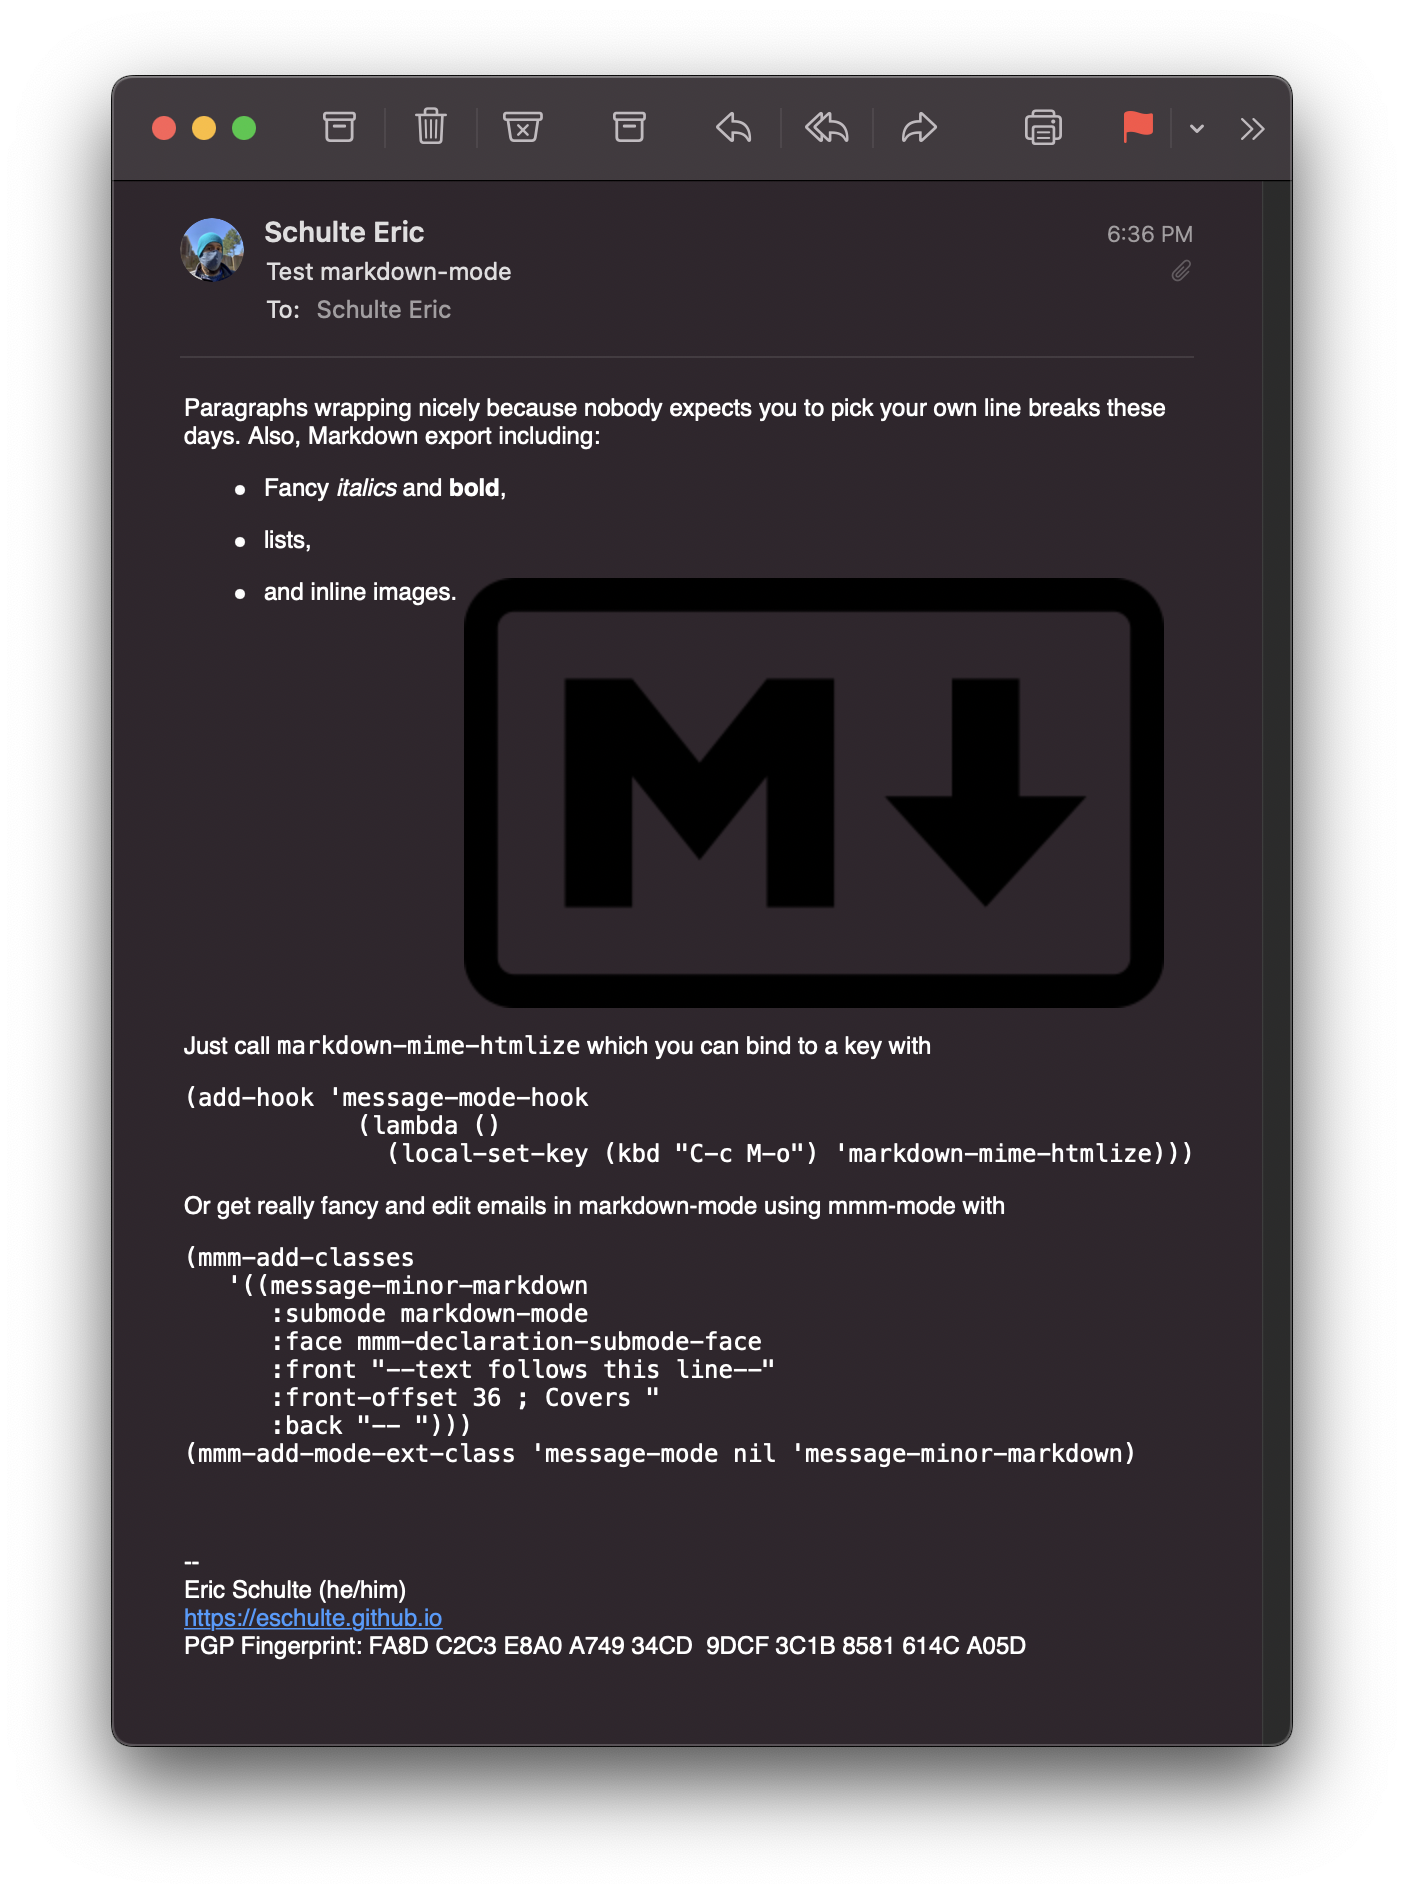
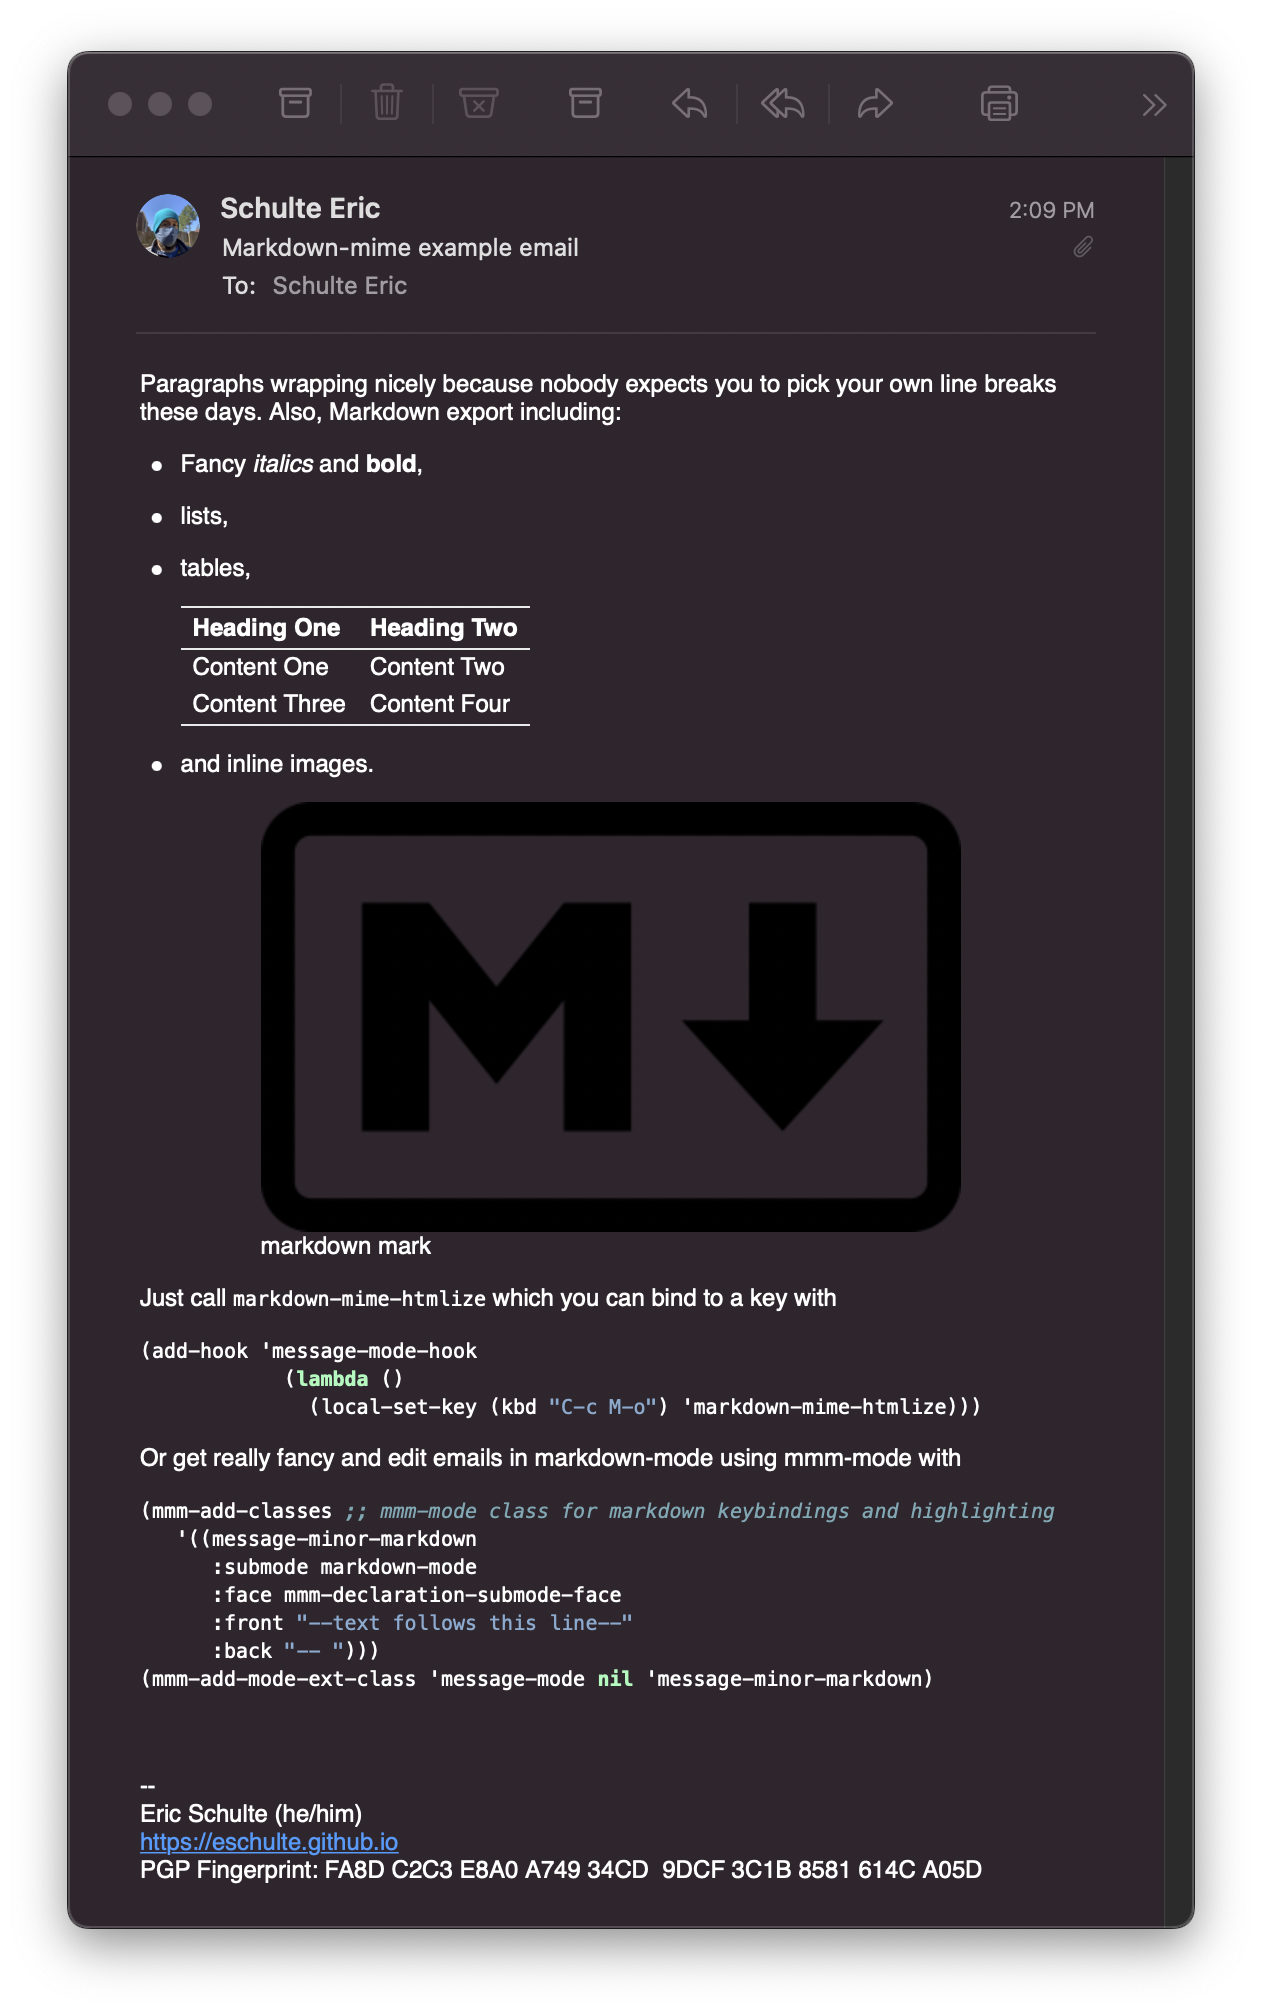
Syntax highlighting & tables w/pandoc

Changed region(s): [[0.0309, 0.0, 0.958, 0.9968]]

diff --git a/pandoc-email.css b/pandoc-email.css
@@ -1,0 +1,151 @@
+p {
+  margin: 1em 0;
+}
+a {
+  color: #1a1a1a;
+}
+a:visited {
+  color: #1a1a1a;
+}
+img {
+  max-width: 100%;
+}
+h1, h2, h3, h4, h5, h6 {
+  margin-top: 1.4em;
+}
+h5, h6 {
+  font-size: 1em;
+  font-style: italic;
+}
+h6 {
+  font-weight: normal;
+}
+ol, ul {
+  padding-left: 1.7em;
+  margin-top: 1em;
+}
+li > ol, li > ul {
+  margin-top: 0;
+}
+blockquote {
+  margin: 1em 0 1em 1.7em;
+  padding-left: 1em;
+  border-left: 2px solid #e6e6e6;
+  color: #606060;
+}
+code {
+  font-family: Menlo, Monaco, 'Lucida Console', Consolas, monospace;
+  font-size: 85%;
+  margin: 0;
+}
+pre {
+  margin: 1em 0;
+  overflow: auto;
+}
+pre code {
+  padding: 0;
+  overflow: visible;
+  overflow-wrap: normal;
+}
+.sourceCode {
+ background-color: transparent;
+ overflow: visible;
+}
+hr {
+  background-color: #1a1a1a;
+  border: none;
+  height: 1px;
+  margin: 1em 0;
+}
+table {
+  margin: 1em 0;
+  border-collapse: collapse;
+  width: 100%;
+  overflow-x: auto;
+  display: block;
+  font-variant-numeric: lining-nums tabular-nums;
+}
+table caption {
+  margin-bottom: 0.75em;
+}
+tbody {
+  margin-top: 0.5em;
+  border-top: 1px solid #1a1a1a;
+  border-bottom: 1px solid #1a1a1a;
+}
+th {
+  border-top: 1px solid #1a1a1a;
+  padding: 0.25em 0.5em 0.25em 0.5em;
+}
+td {
+  padding: 0.125em 0.5em 0.25em 0.5em;
+}
+header {
+  margin-bottom: 4em;
+  text-align: center;
+}
+code{white-space: pre-wrap;}
+span.smallcaps{font-variant: small-caps;}
+div.columns{display: flex; gap: min(4vw, 1.5em);}
+div.column{flex: 1;}
+div.hanging-indent{margin-left: 1.5em; text-indent: -1.5em;}
+ul.task-list{list-style: none;}
+ul.task-list li input[type="checkbox"] {
+  width: 0.8em;
+  margin: 0 0.8em 0.2em -1.6em;
+  vertical-align: middle;
+}
+pre > code.sourceCode { white-space: pre; position: relative; }
+pre > code.sourceCode > span { display: inline-block; line-height: 1.25; }
+pre > code.sourceCode > span:empty { height: 1.2em; }
+.sourceCode { overflow: visible; }
+code.sourceCode > span { color: inherit; text-decoration: inherit; }
+div.sourceCode { margin: 1em 0; }
+pre.sourceCode { margin: 0; }
+pre.numberSource code
+  { counter-reset: source-line 0; }
+pre.numberSource code > span
+  { position: relative; left: -4em; counter-increment: source-line; }
+pre.numberSource code > span > a:first-child::before
+  { content: counter(source-line);
+    position: relative; left: -1em; text-align: right; vertical-align: baseline;
+    border: none; display: inline-block;
+    -webkit-touch-callout: none; -webkit-user-select: none;
+    -khtml-user-select: none; -moz-user-select: none;
+    -ms-user-select: none; user-select: none;
+    padding: 0 4px; width: 4em;
+    color: #aaaaaa;
+  }
+pre.numberSource { margin-left: 3em; border-left: 1px solid #aaaaaa;  padding-left: 4px; }
+div.sourceCode
+  {   }
+code span.al { color: #ff0000; font-weight: bold; } /* Alert */
+code span.an { color: #60a0b0; font-weight: bold; font-style: italic; } /* Annotation */
+code span.at { color: #7d9029; } /* Attribute */
+code span.bn { color: #40a070; } /* BaseN */
+code span.bu { color: #008000; } /* BuiltIn */
+code span.cf { color: #007020; font-weight: bold; } /* ControlFlow */
+code span.ch { color: #4070a0; } /* Char */
+code span.cn { color: #880000; } /* Constant */
+code span.co { color: #60a0b0; font-style: italic; } /* Comment */
+code span.cv { color: #60a0b0; font-weight: bold; font-style: italic; } /* CommentVar */
+code span.do { color: #ba2121; font-style: italic; } /* Documentation */
+code span.dt { color: #902000; } /* DataType */
+code span.dv { color: #40a070; } /* DecVal */
+code span.er { color: #ff0000; font-weight: bold; } /* Error */
+code span.ex { } /* Extension */
+code span.fl { color: #40a070; } /* Float */
+code span.fu { color: #06287e; } /* Function */
+code span.im { color: #008000; font-weight: bold; } /* Import */
+code span.in { color: #60a0b0; font-weight: bold; font-style: italic; } /* Information */
+code span.kw { color: #007020; font-weight: bold; } /* Keyword */
+code span.op { color: #666666; } /* Operator */
+code span.ot { color: #007020; } /* Other */
+code span.pp { color: #bc7a00; } /* Preprocessor */
+code span.sc { color: #4070a0; } /* SpecialChar */
+code span.ss { color: #bb6688; } /* SpecialString */
+code span.st { color: #4070a0; } /* String */
+code span.va { color: #19177c; } /* Variable */
+code span.vs { color: #4070a0; } /* VerbatimString */
+code span.wa { color: #60a0b0; font-weight: bold; font-style: italic; } /* Warning */
+.display.math{display: block; text-align: center; margin: 0.5rem auto;}

diff --git a/README.md b/README.md
@@ -11,7 +11,7 @@ For example the following message buffer:
 
 ```
 To: Eric Schulte <my.self@gmail.com>
-Subject: Test markdown-mime
+Subject: Markdown-mime example email
 From: Eric Schulte <my.self@gmail.com>
 --text follows this line--
 <#secure method=pgpmime mode=sign>
@@ -22,30 +22,36 @@ line breaks these days.  Also, Markdown export including:
 
 - lists,
 
+- tables,
+
+    | Heading One   | Heading Two  |
+    |---------------|--------------|
+    | Content One   | Content Two  |
+    | Content Three | Content Four |
+
 - and inline images.
-  ![markdown mark](~/Desktop/Markdown-mark.png)
+
+    ![markdown mark](~/Desktop/Markdown-mark.png)
 
 Just call `markdown-mime-htmlize` which you can bind to a key with
 
-    (add-hook 'message-mode-hook
-                (lambda ()
-                  (local-set-key (kbd "C-c M-o") 'markdown-mime-htmlize)))
+```lisp
+(add-hook 'message-mode-hook
+            (lambda ()
+              (local-set-key (kbd "C-c M-o") 'markdown-mime-htmlize)))
+```
 
 Or get really fancy and edit emails in markdown-mode using mmm-mode with
 
-    (mmm-add-classes
-       '((message-minor-markdown
-          :submode markdown-mode
-          :face mmm-declaration-submode-face
-          :front "--text follows this line--"
-          :front-offset 36 ; Covers "
-          :back "-- ")))
-    (mmm-add-mode-ext-class 'message-mode nil 'message-minor-markdown)
-
--- 
-Eric Schulte (he/him)
-https://eschulte.github.io
-PGP Fingerprint: FA8D C2C3 E8A0 A749 34CD  9DCF 3C1B 8581 614C A05D
+```lisp
+(mmm-add-classes ;; mmm-mode class for markdown keybindings and highlighting
+   '((message-minor-markdown
+      :submode markdown-mode
+      :face mmm-declaration-submode-face
+      :front "--text follows this line--"
+      :back "-- ")))
+(mmm-add-mode-ext-class 'message-mode nil 'message-minor-markdown)
+```
 ```
 
 sends an html email rendering as follows:
@@ -91,6 +97,36 @@ After `markdown-mime-htmlize`, you can always undo to restore the
 original plain text mail.
 
 ## Tips
+
+### Pandoc for highlighted source code and tables
+The plain `markdown` markup engine does not support fontified source
+code or tables.  This fun functionality can be relatively easily added
+by switching to using [pandoc][] as your markdown to HTML exporter,
+with [premailer][] used as a post-processing step to inline the CSS
+generated by pandoc into the generated html so that mail user agents
+won't strip it out.
+
+[pandoc]: https://pandoc.org
+[premailer]: https://pypi.org/project/premailer/
+
+The `pandoc-email.sh` script included in this directory is a simple
+shell script that calls `pandoc` and passes the results through
+`premailer`.
+
+To enable tables and source code highlighting with pandoc and
+premailer:
+
+1. Install [pandoc][].
+
+2. Install [premailer][].
+
+3. Set the value of `markdown-command` to point to the
+   `pandoc-email.sh` script in this directory.
+
+    ```elisp
+    (setq markdown-command "/path/to/this/repo/pandoc-email.sh")
+    ```
+
 
 ### CSS style customization
 Email clients will often strip all global CSS from email messages. In
